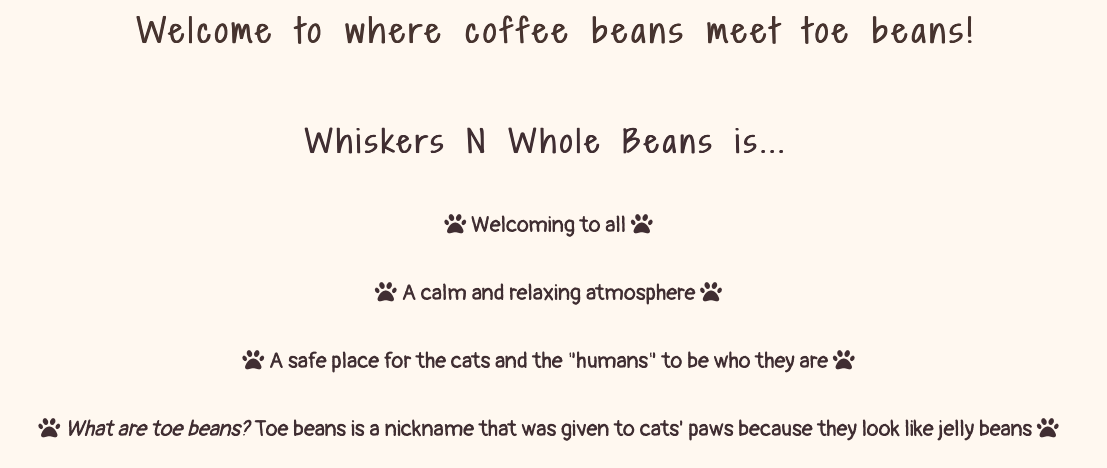
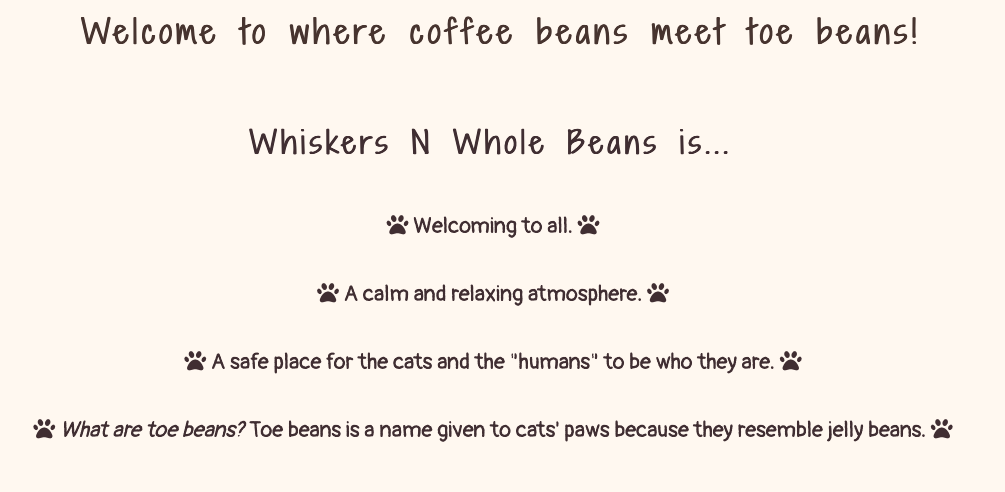
Proofread the readme and code

diff --git a/index.html b/index.html
@@ -50,12 +50,12 @@
         <div class="top-cat-text">
             <h3>Whiskers N Whole Beans is...</h3>
             <br>
-            <p><i class="fa-solid fa-paw"></i> Welcoming to all <i class="fa-solid fa-paw"></i></p>
-            <p><i class="fa-solid fa-paw"></i> A calm and relaxing atmosphere <i class="fa-solid fa-paw"></i></p>
-            <p><i class="fa-solid fa-paw"></i> A safe place for the cats and the "humans" to be who they are <i
+            <p><i class="fa-solid fa-paw"></i> Welcoming to all. <i class="fa-solid fa-paw"></i></p>
+            <p><i class="fa-solid fa-paw"></i> A calm and relaxing atmosphere. <i class="fa-solid fa-paw"></i></p>
+            <p><i class="fa-solid fa-paw"></i> A safe place for the cats and the "humans" to be who they are. <i
                     class="fa-solid fa-paw"></i></p>
-            <p><i class="fa-solid fa-paw"></i> <i>What are toe beans?</i> Toe beans is a nickname that was given to
-                cats' paws because they look like jelly beans <i class="fa-solid fa-paw"></i></p>
+            <p><i class="fa-solid fa-paw"></i> <i>What are toe beans?</i> Toe beans is a name given to
+                cats' paws because they resemble jelly beans. <i class="fa-solid fa-paw"></i></p>
         </div>
         <br>
         <div id="middle-whisker">

diff --git a/README.md b/README.md
@@ -1,7 +1,7 @@
 # Whiskers N Whole Beans
-Whiskers N Whole Beans is my first project for Code Insitute. The idea came from my love for coffee, books, and, of course, cats. I do have two cats name Mo and Eva and their picture was used for the People page and I am also a librarian. My cats were actually in foster care when we got them, so that sparked the idea and was also influenced by the growing number of cat cafes popping up in various cities. And, personally I always wanted to open a coffeeshop and bakery. 
+Whiskers N Whole Beans is my first project for Code Institute. The idea came from my love for coffee, books, and, of course, cats. I do have two cats name Mo and Eva and their picture was used for the People page and I am also a librarian. My cats were actually in foster care when we got them, so that sparked the idea and was also influenced by the growing number of cat cafes popping up in various cities. And, personally, I always wanted to open a coffeeshop and bakery. 
 
-Whiskers N Whole Beans is a business's website. It is intended to give the user information on what the business is, what it does, and what they can do to avail of the services. I wanted to create a site that was welcoming without a crazy amount of colour, a lot of wording, or pictures. I wanted to make it simple and to the point, where it won't be overwhelming to customers, but it still had a bit of fun to it. 
+Whiskers N Whole Beans is a business's website. It is intended to give users information on what the business is, what it does, and what they can do to avail of the services. I wanted to create a site that was welcoming without a crazy amount of colour, a lot of wording, or pictures. I wanted to make it simple and to the point, where it won't be overwhelming to customers, but it still had a bit of fun to it. 
 
 ![Whiskers N Whole Beans across different screen sizes](/assets/readme-images/responsive-screens-readme.png)
 
@@ -46,14 +46,14 @@ Whiskers N Whole Beans is Live!  Visit [Here](https://apita1423.github.io/whiske
 ## User Experience
 
 ### User Stories
-Cats are known for their calm nature just laying their sleeping for hours upon hours. I wanted to convey that calm nature through the website. For first time users, I wanted them to feel like there wasn't so much being thrown at them. For returning users, I wanted the website to feel like second nature.If you are in need of some relaxation and coffee/tea/pastry come hang with the cats. Working as a librarian, and having multiple patrons come to me asking me questions, I wanted to look something and not make me jump through multiple hoops to just get the answer. That is why I linked the different pages through the text. A user wants to read the first page, but wants to quickly go to the Book Here page they can do that, it's right there. They want to find out about the DSPCA, there is a link for that right in the Home page. For returning users, they can click right on the Book Here menu right from the Home page and don't have to go through all the pages (in future implementation I mentioned that I wanted to add a Manage Your Reservation section, which allows them to cancel if they need to or change time). The main goal was I wanted firs time or returning users to feel calm and happy coming to my website.
+Cats are known for their calm nature just laying their sleeping for hours upon hours. I wanted to convey that calm nature through the website. For first time users, I wanted them to feel like there wasn't so much being thrown at them. For returning users, I wanted the website to feel like when the users is in need of some relaxation, coffee/tea/pastry, and want to hang out with cats, they know exactly where to go. Working as a librarian, and having multiple patrons come to me asking me questions, I want to look at a website and not feel like I need to jump through multiple hoops to just get a answer. That is what I wanted the website to be. That is why I linked the different pages through the text. A user wants to read the first page, but wants to quickly go to the Book Here page they can do that. They want to find out about the DSPCA, there is a link for that right in the Home page. For returning users, they can click right on the Book Here menu right from the Home page and don't have to go through all the pages (in future implementation I mentioned that I wanted to add a Manage Your Reservation section, which allows the user to cancel if they need to or change time of their reservation). The main goal of the website was that the users does not have to jump through multiple hoops just to get what they want. 
 
 ---
 
 ## Design
 
 ### Colour Scheme
-The colour scheme that I used for Whiskers N Whole Beans was more towards warm colours. The main idea of the site is to be a place where you can relax and feel at home. For many people, sitting on a chair with a purring cat on their lap, drinking tea or coffee, and having pastries can materialise warmth and relaxation. It does for me and bringing in some Autumn colours creates that atmosphere. 
+The colour scheme that I used for Whiskers N Whole Beans was more towards warm colours. The main idea of the site is to be a place where you can relax and feel at home. For many people, sitting on a chair with a purring cat on their lap, drinking tea or coffee, and having pastries can materialise warmth and relaxation. It does for me and bringing in some autumn colours creates that atmosphere. 
 
 ![Whiskers N Whole Beans Colour Scheme](/assets/readme-images/colour-scheme.png)
 
@@ -91,7 +91,7 @@ I used Balsamiq to bring my ideas to "life". There was a lot that I added to the
 ### General features on each page
 - Nav/Menu
 
-Nav/Menu bar has four main buttons situated on the right with the logo in the middle and title on the left. The logo and title are linked to the Home page, so when clicked in the other pages it will take the user back to the Home page. I used the same concept as in the Love Running project, where the menu buttons will highlight with a line in the bottom to let the user know which page they are on. The title, logo, and menu buttons do change position depending on screen sizes. The responsive image at the top of the page show this. 
+Nav/Menu bar has four main buttons situated on the right with the logo in the middle and title on the left. The logo and title are linked to the Home page, so when clicked in the other pages it will take the user back to the Home page. I used the same concept as in the Love Running project, where the menu buttons will highlight with a line on the bottom to let the user know which page they are on. The title, logo, and menu buttons do change position depending on screen sizes. The responsive image at the top of the READme show this. 
 
 ![Navigation and Menu](/assets/readme-images/nav-menu.png)
 
@@ -109,13 +109,13 @@ The favicon was taken from the logo that was sourced from [Canva](https://www.ca
 
 - Home Hero Image
 
-In my wireframes, my Home hero image was different, but this was was picked due to it being a perfect representation of what the website is: Cats and Coffee!
+In my wireframes, my Home hero image was different, but this image was picked due to it being a perfect representation of what the website is: Cats and Coffee!
 
 ![Home Hero Image](/assets/readme-images/home-hero-image.png)
 
 - Home Introduction
 
-The Home page is more of an overview of the People and Cats page. The Home Introduction is more like the Ethos in the Love Running project.
+The Home page is more of an overview of the People and Cats page. The Home Introduction section is more like the ethos in the Love Running project.
 
 ![Home Introduction](/assets/readme-images/home-intro.png)
 
@@ -127,7 +127,7 @@ Here I tried to hit the main points about the Cats and who we partnered with to 
 
 - Home People
 
-This section is also a place where I tried to hit the main points about the People section. 
+This section is also a place where I tried to hit the main points about the People page. 
 
 ![Home People](/assets/readme-images/home-people.png)
 
@@ -145,7 +145,7 @@ Due to this page being called People page, I wanted a hero image that had a cat 
 
 - Mo and Eva
 
-The Mo and Eva section, which has the heading of "Behind every idea there is a story..." is essentially the about us page. It starts with the story behind the idea of Whiskers N Whole Bean and Mo and Eva are the start of that. Mo and Eva are my actual cats and they were adopted. They do also have a brother called Thorin, who is a labrador. The image used here is my personal image. 
+The Mo and Eva section, which has the heading of "Behind every idea there is a story..." is essentially the about us page. It starts with the story behind the idea of Whiskers N Whole Bean and Mo and Eva are the start of that. Mo and Eva are my actual cats and they were adopted. They do also have a brother called Thorin, who is a labrador. The image used here is my personal photo. 
 
 ![Mo and Eva](/assets/readme-images/people-mo-eva.png)
 
@@ -163,7 +163,7 @@ In my wireframes, I dedicated a whole page to the cafe, but because of time I ha
 
 - Cats Hero Image
 
-In my images, I wanted to show cats as natural as possible (like you would take a picture of them yourself at home). And, I think this picture was perfect. I also liked it due to many cats housed in foster or rescue care are not always kittens, some of them might be a bit older. And, they are still awesome to adopt.
+In my images, I wanted to show cats as natural as possible (like you would take a picture of them yourself at home). And, I think this picture was perfect. I also like it due to many cats housed in foster or rescue care are not always kittens, some of them might be a bit older. And, they are still awesome to adopt.
 
 ![Cats Hero Image](/assets/readme-images/cats-hero-image.png)
 
@@ -181,19 +181,19 @@ I took the idea of the gallery from the Love Running project. I wanted to convey
 
 - Book Here Form
 
-Book Here form was sourced from the Love Runnigng project, but tweaked it to fit the design of the website. I do like how round corners looked, so I round the book here box, the three inputs, and the Book Here! button. The radio buttons consists of Morning, Afternoon, Evening and these concide wit the hours underneath the book here form. This allows the user to know what time of day they would visit. 
+Book Here form was sourced from the Love Runnigng project, but tweaked it to fit the design of the website. I do like how round corners looked, so I round the book here box, the three inputs, and the Book Here! button. The radio buttons consists of Morning, Afternoon, Evening and these concide with the hours underneath the book here form. This allows the user to know what time of day they would like to visit. 
 
 ![Book Here Form](/assets/readme-images/book-here-form.png)
 
 - Hours of Operation
 
-Because of the booking element of the website, I added hours of operation to help guide the user in picking which time works best for them. Initally I wanted to put this in the footer, but it was not cooperating with me. But, putting it under the Book Here form actually worked better. 
+Because of the booking element of the website, I added hours of operation to help guide the user in picking which time works best for them. Initally, I wanted to put this in the footer, but it was not cooperating with me. But, putting it under the Book Here form actually worked better. 
 
 ![Hours of Operation](/assets/readme-images/hours-operation.png)
 
 - Our Location
 
-The location is based on different places that I have lived with Mo and Eva all woven togther. The address together is not a actual address. 
+The location is based on different places that I have lived with Mo and Eva all woven togther. The address together as a whole is not a actual address. 
 
 ![Our Location](/assets/readme-images/our-location.png)
 
@@ -205,7 +205,7 @@ Once the user enters their details and clicks Book Here! They are presented with
 
 - Thank You Logo Stamp
 
-The Thank You Stamp was created in Canva using the sourced cat logo. It conviently goes with the saying on the Thank You page of "You have recieved the seal of approval".
+The Thank You Stamp was created in Canva using the sourced cat logo. It conviently goes with the saying on the Thank You page of "You have received the seal of approval".
 
 ![Thank You Logo Stamp](/assets/readme-images/logo-stamp-readme.png)
 
@@ -213,12 +213,12 @@ The Thank You Stamp was created in Canva using the sourced cat logo. It convient
 - To set up a live feed of the cat area.
 - Add a coffee page to the website - a coffee section was thought of in the wireframes, but it was a lot for my knowledge at the time and actual time. [Cafe Wireframe](/assets/wireframes-images/cafe-page-wireframe.png)
 - Add a newsletter for updates on the cats or when cats are adopted - this was also part of my ideas at the beginning, but again knowledge and time. 
-- In the book here section, add a Manage Your Reservation. A customer would be able to create an account sign-in and cancel their reservation or if they would need to rescedule - this was also an idea that I had at the beginning, but same issue as above. [Book Here Wireframe](/assets/wireframes-images/book-here-wireframe.png)
-- I would like for the picture of the "cats" in the gallery, when a user hovers over them, they turn to reveal information on the cats. I had this idea, as well, from the beginning, but again same issue as above. [Cats Page Wireframe](/assets/wireframes-images/cats-page-wireframe.png)
+- In the book here section, add a Manage Your Reservation. A customer would be able to create an account sign-in and cancel their reservation or if they would need to reschedule - this was also an idea that I had at the beginning, but same issue as above. [Book Here Wireframe](/assets/wireframes-images/book-here-wireframe.png)
+- I would like for the picture of the "cats" in the gallery, when a user hovers over them, they turn to reveal information of the cats. I had this idea, as well, from the beginning, but again same issue as above. [Cats Page Wireframe](/assets/wireframes-images/cats-page-wireframe.png)
 - I know many of the future implementaions were ideas that I thought of from the beginning, but my knowledge is not there yet. As my knowledge grows I would like to test them on this project. 
 
 ### Accessibility
-With every image and icon used throughout Whiskers N Whole Beans I have added an aria-label or an alt attribute. I tried to use colour that was not to bright or light. The font is readable, but I do feel for future projects, I would do more research on what fonts are more accessible.
+With every image and icon used throughout Whiskers N Whole Beans, I have added an aria-label or an alt attribute. I tried to use colour that was not to bright or light. The font is readable, but I do feel for future projects, I would do more research on what fonts are more accessible.
 
 The desktop version for Lighthouse gave great numbers, but the mobile was not the greatest for Performance (image below). I would like to work on that and see what I can do to make that better. I used WAVE for the contrast, which gave back 0 errors (image below).
 
